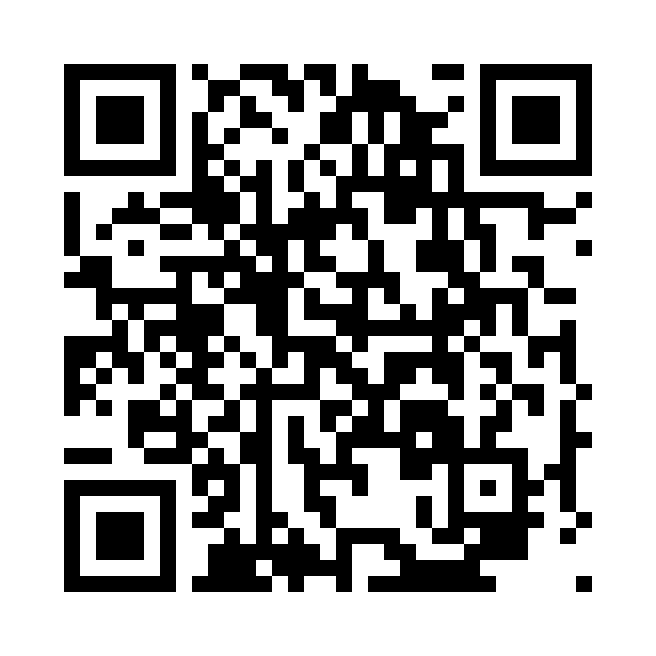
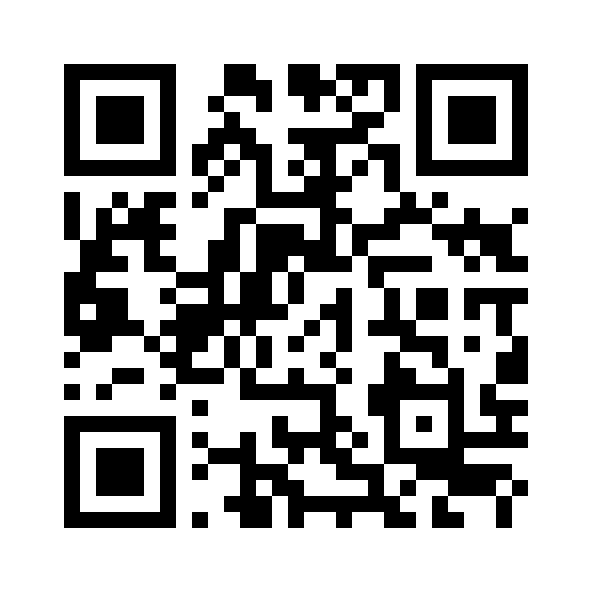
Point QR code and docs at tobiasjuelg.de/halloween

diff --git a/qr.html b/qr.html
@@ -31,7 +31,7 @@
   </div>
   <div class="sheet" id="sheet"></div>
   <script>
-    const URL_ = 'https://juelg.github.io/halloween/mind.html';
+    const URL_ = 'https://tobiasjuelg.de/halloween/mind.html';
     const bare = new URLSearchParams(location.search).has('bare');
     if (bare) document.body.classList.add('bare');
 

diff --git a/SETUP.md b/SETUP.md
@@ -61,10 +61,10 @@ To rotate the token: generate a new one on the phone, save it, and replace `admi
 2. Tell Claude. It adds the remote and pushes `main`.
 3. In the repo, open **Settings → Pages → Build and deployment**. Set *Source* to **Deploy from a branch**, *Branch* to **main** and folder **/ (root)**, then Save.
 4. After about a minute, open:
-   - brain: <https://juelg.github.io/halloween/> (bookmark it on the phone)
-   - guests: <https://juelg.github.io/halloween/mind.html>, which is what the QR code points to.
+   - brain: <https://tobiasjuelg.de/halloween/> (bookmark it on the phone)
+   - guests: <https://tobiasjuelg.de/halloween/mind.html>, which is what the QR code points to.
 
-   If your user site has a custom domain, project pages redirect to it. The QR code points at the github.io URL, which still redirects correctly.
+   `juelg.github.io/halloween/` redirects there, because the user site has the custom domain `tobiasjuelg.de`.
 5. Print `qr.html`. It's 4 tags per page with a PRINT button, or use `qr.png`.
 
 ## Friday: mask lab (once the mask arrives)
